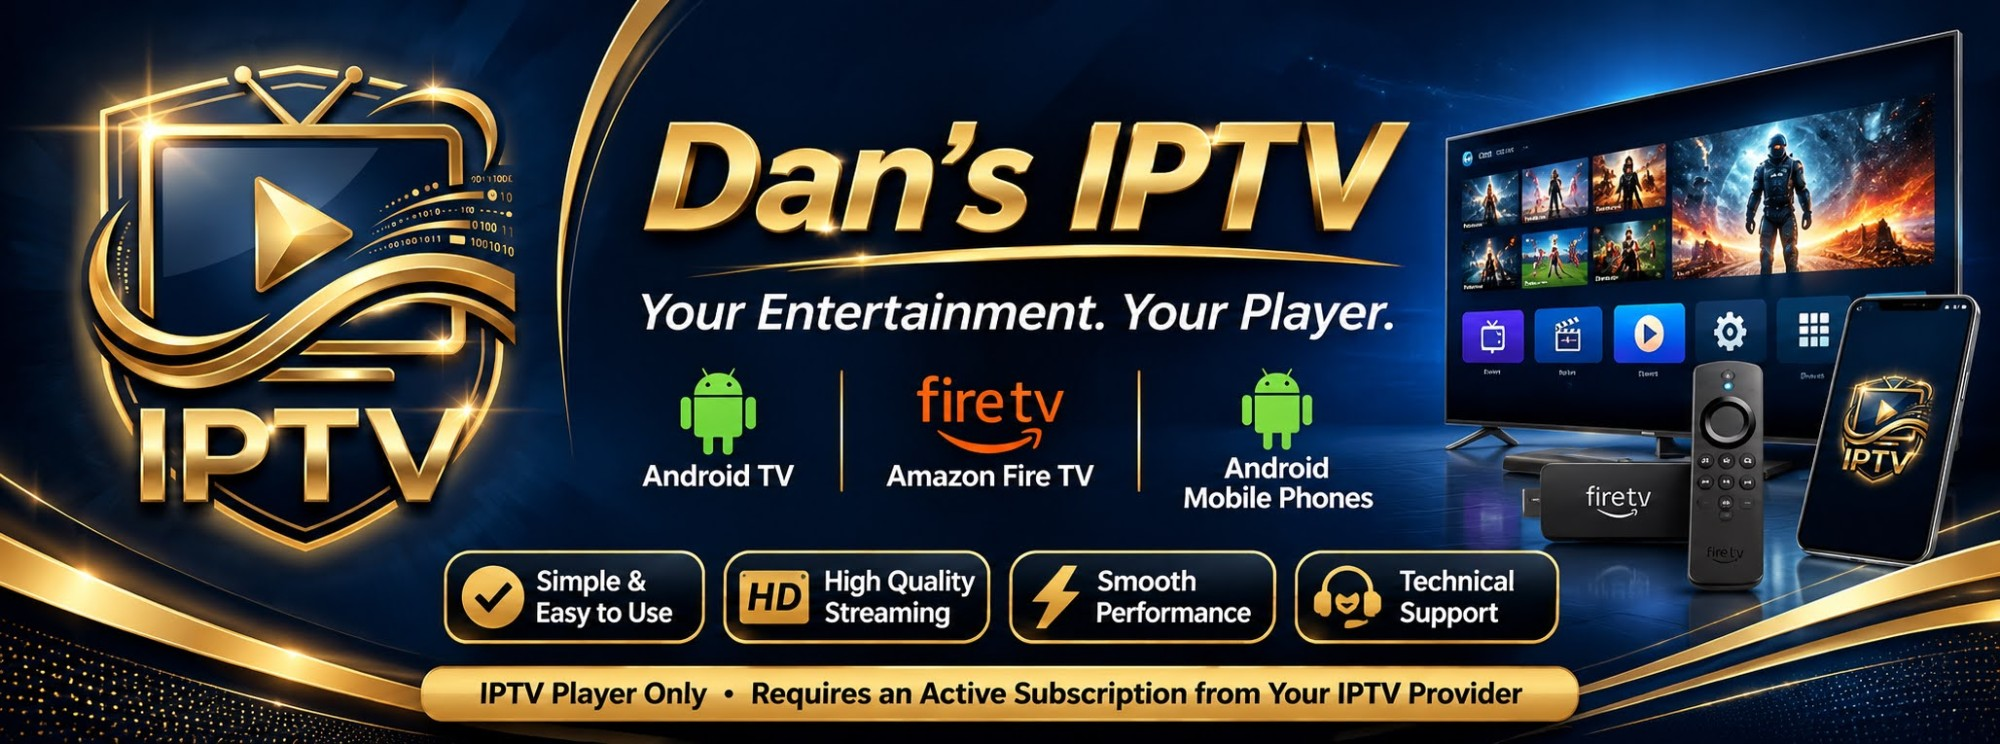
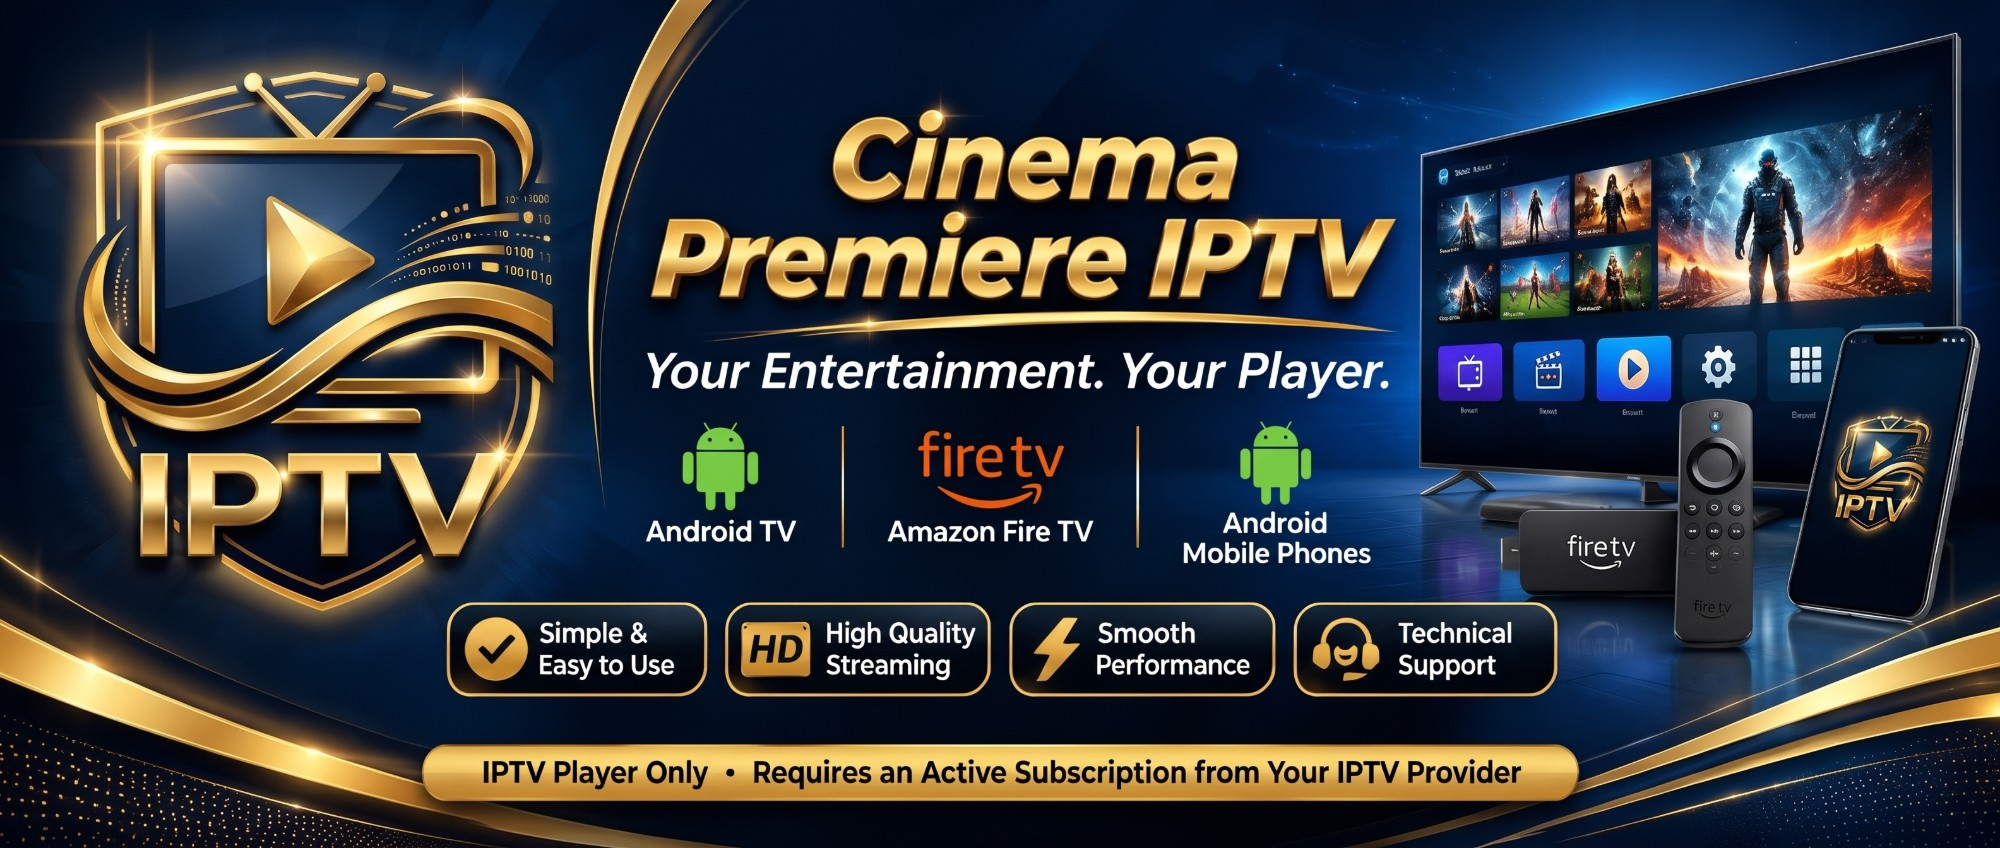
Website: new Cinema Premiere posters (English + Arabic)

diff --git a/index.html b/index.html
@@ -73,7 +73,7 @@ mark { background: rgba(216,180,90,0.35); color: #fff; border-radius: 3px; }
 <div class="card"><h2>Windows PC</h2><p>Download the Cinema Premiere IPTV Player installer for your Windows computer.</p><a class="btn" href="https://github.com/danramzi-eagle5871/dans-iptv/releases/latest/download/Dans-IPTV-Setup.exe" target="_blank" rel="noopener">Download for Windows</a><div class="dl-card" id="dl-win" hidden><svg viewBox="0 0 24 24" fill="none" stroke="#d8b45a" stroke-width="2.2" stroke-linecap="round" stroke-linejoin="round" aria-hidden="true"><path d="M12 3v12"/><path d="M7 10l5 5 5-5"/><path d="M4 17v2a2 2 0 0 0 2 2h12a2 2 0 0 0 2-2v-2"/></svg><span><b>0</b> downloads</span></div></div>
 <div class="card"><h2>Android TV, Amazon Fire TV &amp; Android Mobile</h2><p>Install the app using the Downloader app on your device. The same code works for all Android devices.</p><div class="code">7954037</div><a class="btn" href="https://aftv.news/7954037" target="_blank" rel="noopener">Get the Android App</a> <a class="btn" style="background:transparent;color:var(--gold);border:1px solid var(--gold)" href="https://github.com/danramzi-eagle5871/dans-iptv/releases/latest/download/DansIPTV-Share.apk">Direct download (.apk)</a><div class="dl-card" id="dl-and" hidden><svg viewBox="0 0 24 24" fill="none" stroke="#d8b45a" stroke-width="2.2" stroke-linecap="round" stroke-linejoin="round" aria-hidden="true"><path d="M12 3v12"/><path d="M7 10l5 5 5-5"/><path d="M4 17v2a2 2 0 0 0 2 2h12a2 2 0 0 0 2-2v-2"/></svg><span><b>0</b> downloads</span></div></div>
 </section>
-<section class="posters" style="margin-top:24px"><img src="poster-arabic.jpg" alt="دان آي بي تي في – ترفيهك. مشغّلك." lang="ar"></section>
+<section class="posters" style="margin-top:24px"><img src="poster-arabic.jpg" alt="سينما بريمير – ترفيهك. مشغّلك." lang="ar"></section>
 <section class="updates" id="updates"><h2>Latest update</h2><p><span class="date" id="upd-line">Loading…</span></p><p id="upd-notes"></p><p><span class="date" id="upd-win"></span></p><p>If the app tells you a new version is available, download it from the buttons above and install it over your current one.</p></section>
 <script>
 fetch("version.json",{cache:"no-store"}).then(function(r){return r.json()}).then(function(d){
